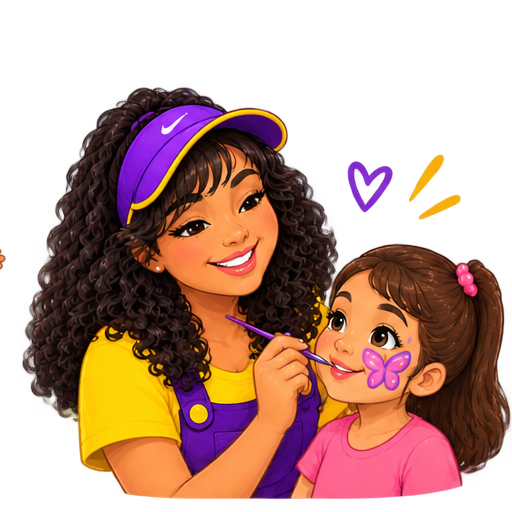
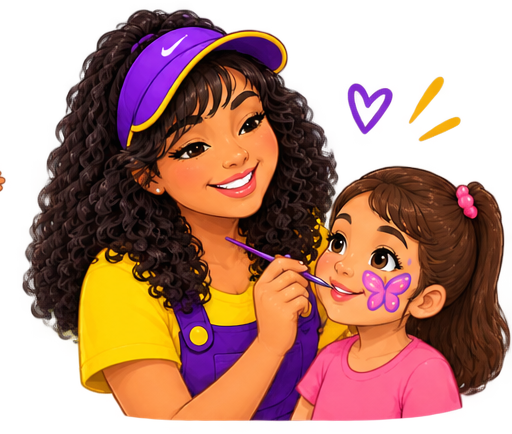
Site Era Uma Vez: foto real no fundo do Hero e ajuste de espaçamento da mascote no Sobre

diff --git a/clientes/era-uma-vez/index.html b/clientes/era-uma-vez/index.html
@@ -8,7 +8,7 @@
 <link rel="preconnect" href="https://fonts.googleapis.com">
 <link rel="preconnect" href="https://fonts.gstatic.com" crossorigin>
 <link href="https://fonts.googleapis.com/css2?family=Fredoka:wght@400;500;600;700&family=Nunito:wght@400;600;700&display=swap" rel="stylesheet">
-<link rel="stylesheet" href="css/style.css?v=17">
+<link rel="stylesheet" href="css/style.css?v=20">
 </head>
 <body>
 
@@ -63,7 +63,7 @@
         <p>A Era Uma Vez nasceu em 2019 com um propósito simples: transformar a recreação em momentos de pura diversão. Desde então, levamos brincadeiras, carinho e segurança para festas e eventos. Cada brincadeira é pensada para proporcionar experiências incríveis para as crianças, cuidando de cada detalhe para que elas aproveitem de verdade e as famílias possam curtir cada instante com tranquilidade.</p>
       </div>
       <div class="floating-mascote--right">
-        <img src="img/mascote-sobre.png?v=4" alt="Recreadora da Era Uma Vez pintando o rosto de uma criança">
+        <img src="img/mascote-sobre.png?v=5" alt="Recreadora da Era Uma Vez pintando o rosto de uma criança">
       </div>
     </div>
   </section>

diff --git a/clientes/era-uma-vez/css/style.css b/clientes/era-uma-vez/css/style.css
@@ -133,7 +133,14 @@ h1, h2, h3 {
 }
 
 /* Hero */
-.hero { padding: 70px 0 60px; position: relative; overflow: hidden; }
+.hero {
+  padding: 70px 0 60px;
+  position: relative;
+  overflow: hidden;
+  background:
+    linear-gradient(165deg, rgba(116, 68, 228, 0.82) 0%, rgba(104, 59, 169, 0.82) 55%, rgba(79, 44, 133, 0.88) 100%),
+    url("../img/hero-bg.jpg") 62% 22% / 150% no-repeat;
+}
 
 .hero__inner {
   display: grid;
@@ -372,7 +379,7 @@ section h2 { font-size: clamp(1.8rem, 3vw, 2.4rem); margin-bottom: 32px; }
 .floating-mascote--right {
   display: flex;
   justify-content: flex-end;
-  margin-top: 16px;
+  margin-top: 4px;
   pointer-events: none;
 }
 .floating-mascote--right img {

diff --git a/_memoria/estrategia.md b/_memoria/estrategia.md
@@ -96,6 +96,18 @@ Solução que funcionou: compactar a pasta do site em `.zip` e mandar pro
 celular por WhatsApp/Drive pra abrir o `index.html` localmente. Repetir esse
 processo sempre que o usuário quiser conferir algo no celular.
 
+**Atualização (25/09/2026):** trocado o fundo da tela inicial (Hero) — antes
+degradê roxo liso, agora uma foto real de recreação (crianças brincando com
+pó colorido, arquivo do usuário em `capa do site/`, salva como
+`img/hero-bg.jpg`) com um degradê roxo semi-transparente por cima pra manter
+a identidade visual e a legibilidade do texto branco. Enquadramento ajustado
+(zoom 150%, posição 62% 22%) a pedido do usuário pra focar nas mãos/pó
+colorido. Também corrigido um espaço em branco indesejado entre o texto do
+"Sobre" e a mascote flutuante: a imagem `mascote-sobre.png` tinha ~15% de
+margem transparente sobrando no topo do próprio arquivo (herança do recorte
+do sprite-sheet original) — cortada com ImageMagick `-trim`, e reduzida a
+margem CSS também.
+
 ## O que pode esperar
 
 - Identidade visual própria (marca pessoal do Adrian) — ainda não definida, fica pra depois
